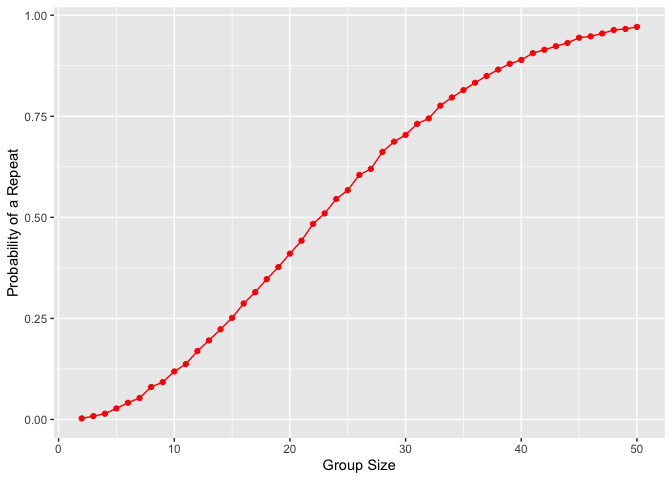
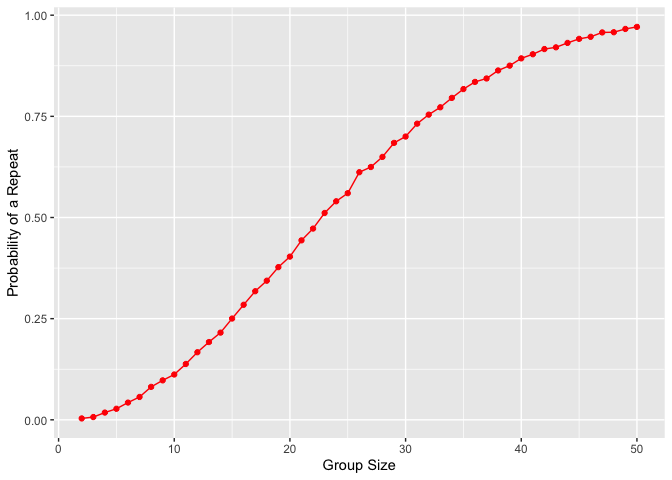
final commit

diff --git a/p8105_hw5_ryd2106.md b/p8105_hw5_ryd2106.md
@@ -57,10 +57,9 @@ birthday_results_df |>
 ![](p8105_hw5_ryd2106_files/figure-gfm/twinsies_plot-1.png)<!-- -->
 These results indicate that as the group size increases the probability
 of having two members with the same birthday increases. At first this
-follows and exponential increase until around a group of 15, at this
-point it becomes a steady rise. At a group size of 35 this increase
-starts leveling off. While not reaching 1, the probability does get
-close.
+follows a steep increase until around a group of 15, at this point it
+becomes a steady rise. At a group size of 35 this increase starts
+leveling off. While not reaching 1, the probability does get close.
 
 ## Problem 2
 
@@ -82,9 +81,8 @@ patient_files =
   rename(arm_subject  = files) |> 
   separate(
     arm_subject, 
-    into =c("arm", "subject_id", 
-            sep = "_")
-    ) |> 
+    into =c("arm", "subject_id"), 
+            sep = "_") |> 
   select(c(arm, subject_id, readings_per_week))
 ```
 
@@ -228,9 +226,6 @@ patient_files =
     ## 
     ## ℹ Use `spec()` to retrieve the full column specification for this data.
     ## ℹ Specify the column types or set `show_col_types = FALSE` to quiet this message.
-
-    ## Warning: Expected 3 pieces. Missing pieces filled with `NA` in 20 rows [1, 2, 3, 4, 5,
-    ## 6, 7, 8, 9, 10, 11, 12, 13, 14, 15, 16, 17, 18, 19, 20].
 
 ``` r
 files_unest = 
